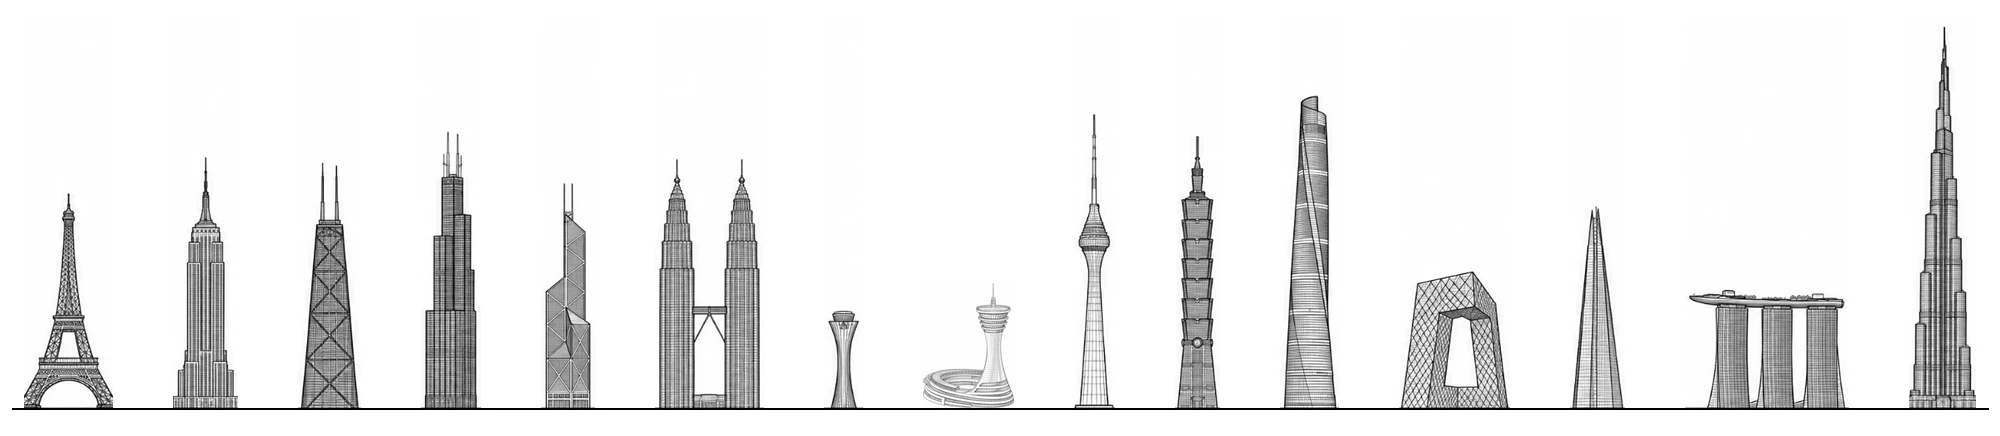
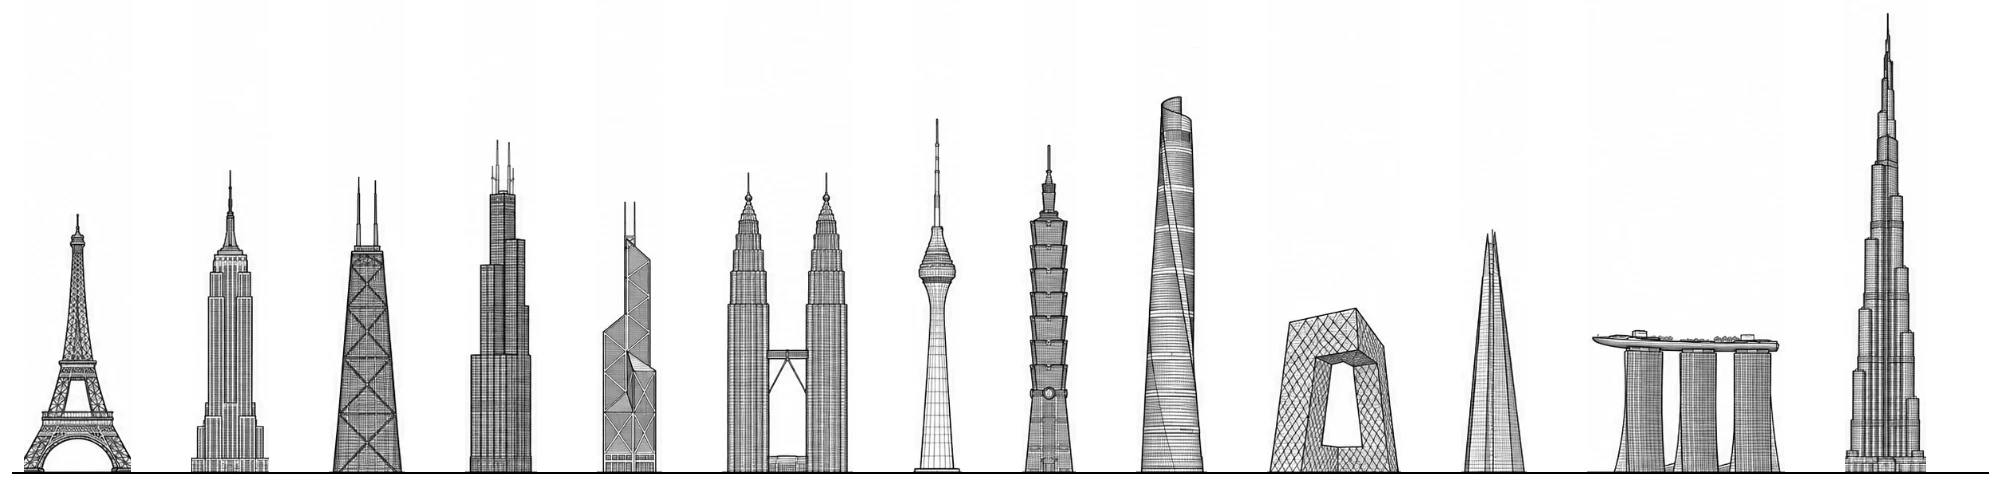
Skyline: 13 structures, airport towers removed, caption shortened

Changed region(s): [[0.0, 0.0894, 1.0, 0.9541]]

diff --git a/index.html b/index.html
@@ -35,9 +35,9 @@
     </div>
   </section>
 
-  <figure id="skyline" class="wrap skyline" aria-label="Dünyanın ve Türkiye'nin simge yapılarından oluşan silüet">
-    <div class="skyline-stage"><img class="skyline-static" src="assets/senkon/skyline.webp?v=20261009h" alt="Eyfel Kulesi'nden Burj Khalifa'ya on beş simge yapının çizgi silüeti, ortada Esenboğa Havalimanı Kontrol Kulesi" width="2000" height="436"></div>
-    <figcaption class="skyline-caption">Yapı mühendisliğinin simge yapıları. Ortada, üzerinde çalıştığımız Esenboğa Havalimanı Kontrol Kulesi.</figcaption>
+  <figure id="skyline" class="wrap skyline" aria-label="Dünyanın simge yapılarından oluşan silüet">
+    <div class="skyline-stage"><img class="skyline-static" src="assets/senkon/skyline.webp?v=20261009i" alt="Eyfel Kulesi'nden Burj Khalifa'ya on üç simge yapının çizgi silüeti" width="2000" height="500"></div>
+    <figcaption class="skyline-caption">Yapı mühendisliğinin simge yapıları.</figcaption>
   </figure>
 
   <section id="hizmetler" class="wrap section rule">
@@ -141,6 +141,6 @@
   });
 })();
 </script>
-<script src="assets/senkon/skyline.js?v=20261009h" defer></script>
+<script src="assets/senkon/skyline.js?v=20261009i" defer></script>
 </body>
 </html>

diff --git a/docs/senkon-site.md b/docs/senkon-site.md
@@ -9,4 +9,4 @@ Static site on GitHub Pages (branch `main`). No build step.
 - `tools/`: `make-logo.py`, `fetch-fonts.js`, `measure-skyline.py`, `make-model-sql.js`.
 - `tests/`: `node --test` (bare) runs everything.
 
-The skyline picture is composed from the ChatGPT drawing kept outside the repo (`local/skyline-chatgpt-v3.webp`): `python tools/compose-skyline.py <drawing> assets/senkon/skyline.webp --gap 60 --drop 1,10,11,15` (drops Flatiron, the Gherkin, SWFC and One WTC; `--insert 7:local/esenboga-ref/esenboga-drawing.webp:150` adds the Esenboğa drawing before Çamlıca). Then re-measure the building columns: `python tools/measure-skyline.py assets/senkon/skyline.webp assets/senkon/skyline.json assets/senkon/skyline-names.txt` (add `--split x` where two neighbours touch). Names in `skyline-names.txt` are in left-to-right order.
+The skyline picture is composed from the ChatGPT drawing kept outside the repo (`local/skyline-chatgpt-v3.webp`): `python tools/compose-skyline.py <drawing> assets/senkon/skyline.webp --gap 60 --drop 1,7,10,11,15` (drops Flatiron, the İstanbul Airport tower, the Gherkin, SWFC and One WTC; `--insert i:file:height_px` can add a stand-alone drawing, e.g. the Esenboğa tower kept in `local/esenboga-ref/`). Then re-measure the building columns: `python tools/measure-skyline.py assets/senkon/skyline.webp assets/senkon/skyline.json assets/senkon/skyline-names.txt` (add `--split x` where two neighbours touch). Names in `skyline-names.txt` are in left-to-right order.
